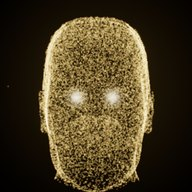
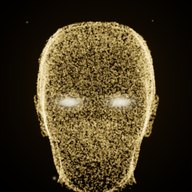
Particle face: fuller at the temples and slimming to the jaw like a human head; eyes set wider and oval

diff --git a/app/src/main/assets/www/index.html b/app/src/main/assets/www/index.html
@@ -385,6 +385,9 @@ function makeGoldenParticleFace(model) {
     }
   });
   if (!candidates.length || totalArea <= 0) return null;
+  // a human head: fuller at the temples and cranium, slimming down to the jaw and chin
+  const cx = head ? head.cx || 0 : 0, widen = y => { if (!head) return 1; const t = Math.min(1, Math.max(0, (y - head.neck) / (head.top - head.neck)));
+    const k = Math.min(1, Math.max(0, (t - 0.12) / 0.5)); return 0.94 + 0.18 * k * k * (3 - 2 * k); };
   const count = 28000, points = new Float32Array(count * 3);
   for (let i = 0; i < count; i++) {
     const target = Math.random() * totalArea;
@@ -392,8 +395,8 @@ function makeGoldenParticleFace(model) {
     while (lo < hi) { const mid = (lo + hi) >> 1; if (cumulative[mid] < target) lo = mid + 1; else hi = mid; }
     const tri = candidates[lo], u = Math.random(), v = Math.random(), su = Math.sqrt(u);
     const wa = 1 - su, wb = su * (1 - v), wc = su * v;
-    points[i*3] = tri[0].x * wa + tri[1].x * wb + tri[2].x * wc;
     points[i*3+1] = tri[0].y * wa + tri[1].y * wb + tri[2].y * wc;
+    points[i*3] = cx + (tri[0].x * wa + tri[1].x * wb + tri[2].x * wc - cx) * widen(points[i*3+1]);
     points[i*3+2] = tri[0].z * wa + tri[1].z * wb + tri[2].z * wc;
   }
   const geo = new THREE.BufferGeometry();
@@ -408,10 +411,10 @@ function makeGoldenParticleFace(model) {
   model.add(cloud);
   if (eyeMeshes.length) {                       // two glowing eyes, like the reference
     const eb = new THREE.Box3(); eyeMeshes.forEach(e => eb.expandByObject(e)); eb.applyMatrix4(invRoot);
-    const c = eb.getCenter(new THREE.Vector3()), dx = (eb.max.x - eb.min.x) / 4, r = (eb.max.y - eb.min.y) * 1.1;
+    const c = eb.getCenter(new THREE.Vector3()), dx = (eb.max.x - eb.min.x) / 4 * widen(c.y) * 1.3, r = (eb.max.y - eb.min.y) * 1.1;   // set wide, like the reference
     for (const sx of [-1, 1]) {
       const eye = new THREE.Sprite(new THREE.SpriteMaterial({ map: glowTex, color: 0xfff1d0, transparent: true, depthWrite: false, blending: THREE.AdditiveBlending }));
-      eye.position.set(c.x + sx * dx, c.y, eb.max.z); eye.scale.setScalar(r); model.add(eye);
+      eye.position.set(cx + (c.x - cx) + sx * dx, c.y, eb.max.z); eye.scale.set(r * 1.7, r * 0.75, 1); model.add(eye);   // oval, like a human eye
     }
   }
   return cloud;

diff --git a/pc_source/index.html b/pc_source/index.html
@@ -357,6 +357,9 @@ function makeGoldenParticleFace(model) {
     }
   });
   if (!candidates.length || totalArea <= 0) return null;
+  // a human head: fuller at the temples and cranium, slimming down to the jaw and chin
+  const cx = head ? head.cx || 0 : 0, widen = y => { if (!head) return 1; const t = Math.min(1, Math.max(0, (y - head.neck) / (head.top - head.neck)));
+    const k = Math.min(1, Math.max(0, (t - 0.12) / 0.5)); return 0.94 + 0.18 * k * k * (3 - 2 * k); };
   const count = 28000, points = new Float32Array(count * 3);
   for (let i = 0; i < count; i++) {
     const target = Math.random() * totalArea;
@@ -364,8 +367,8 @@ function makeGoldenParticleFace(model) {
     while (lo < hi) { const mid = (lo + hi) >> 1; if (cumulative[mid] < target) lo = mid + 1; else hi = mid; }
     const tri = candidates[lo], u = Math.random(), v = Math.random(), su = Math.sqrt(u);
     const wa = 1 - su, wb = su * (1 - v), wc = su * v;
-    points[i*3] = tri[0].x * wa + tri[1].x * wb + tri[2].x * wc;
     points[i*3+1] = tri[0].y * wa + tri[1].y * wb + tri[2].y * wc;
+    points[i*3] = cx + (tri[0].x * wa + tri[1].x * wb + tri[2].x * wc - cx) * widen(points[i*3+1]);
     points[i*3+2] = tri[0].z * wa + tri[1].z * wb + tri[2].z * wc;
   }
   const geo = new THREE.BufferGeometry();
@@ -380,10 +383,10 @@ function makeGoldenParticleFace(model) {
   model.add(cloud);
   if (eyeMeshes.length) {                       // two glowing eyes, like the reference
     const eb = new THREE.Box3(); eyeMeshes.forEach(e => eb.expandByObject(e)); eb.applyMatrix4(invRoot);
-    const c = eb.getCenter(new THREE.Vector3()), dx = (eb.max.x - eb.min.x) / 4, r = (eb.max.y - eb.min.y) * 1.1;
+    const c = eb.getCenter(new THREE.Vector3()), dx = (eb.max.x - eb.min.x) / 4 * widen(c.y) * 1.3, r = (eb.max.y - eb.min.y) * 1.1;   // set wide, like the reference
     for (const sx of [-1, 1]) {
       const eye = new THREE.Sprite(new THREE.SpriteMaterial({ map: glowTex, color: 0xfff1d0, transparent: true, depthWrite: false, blending: THREE.AdditiveBlending }));
-      eye.position.set(c.x + sx * dx, c.y, eb.max.z); eye.scale.setScalar(r); model.add(eye);
+      eye.position.set(cx + (c.x - cx) + sx * dx, c.y, eb.max.z); eye.scale.set(r * 1.7, r * 0.75, 1); model.add(eye);   // oval, like a human eye
     }
   }
   return cloud;
